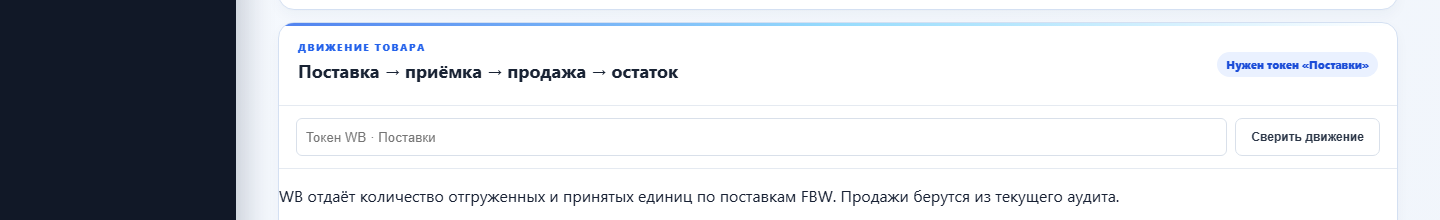
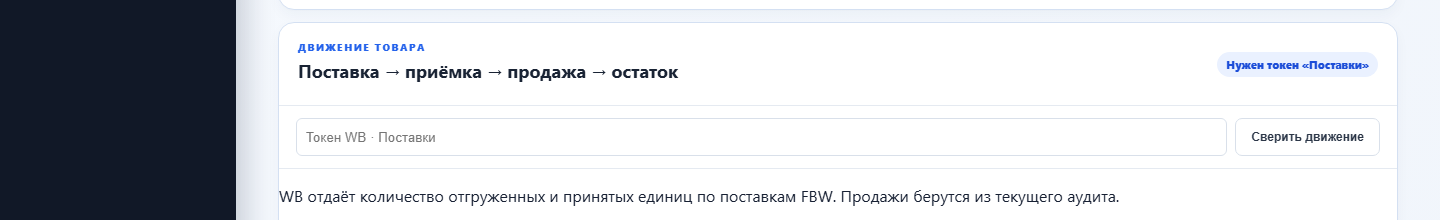
Fix WB token flows and screenshot borders

Changed region(s): [[0.1875, 0.0818, 0.875, 0.1364]]

diff --git a/public/app.js b/public/app.js
@@ -63,6 +63,3 @@ const photoStyle=document.createElement('style');photoStyle.textContent='.photo-
 const brandFilter=document.createElement('select');brandFilter.id='brandFilter';brandFilter.title='Фильтр по бренду';brandFilter.innerHTML='<option value="all">Все бренды</option>';$('filter').after(brandFilter);const productsBeforeBrandFilter=visibleProducts;visibleProducts=()=>{const selected=brandFilter.value;return productsBeforeBrandFilter().filter(x=>selected==='all'||(x.brand||'Без бренда')===selected)};brandFilter.onchange=renderRows;const renderRowsWithBrands=renderRows;renderRows=()=>{if(lastData){const current=brandFilter.value,brands=[...new Set(lastData.products.map(x=>x.brand||'Без бренда'))].sort((a,b)=>a.localeCompare(b,'ru'));brandFilter.innerHTML='<option value="all">Все бренды</option>'+brands.map(x=>`<option value="${esc(x)}">${esc(x)}</option>`).join('');brandFilter.value=brands.includes(current)?current:'all'}renderRowsWithBrands()};
 document.querySelector('#loadStocks').onclick=async()=>{if(!lastData)return message('Сначала запустите финансовый аудит, чтобы определить nmID','info');const button=$('loadStocks');button.disabled=true;button.textContent='Загрузка…';try{const response=await fetch('/api/stocks',{method:'POST',headers:{'Content-Type':'application/json'},body:JSON.stringify({token:$('analyticsToken').value.trim(),nmIds:lastData.products.map(x=>x.nmId)})}),data=await response.json();if(!response.ok)throw new Error(data.error||'Ошибка загрузки остатков');const enriched=await (await fetch('/api/inventory-analysis',{method:'POST',headers:{'Content-Type':'application/json'},body:JSON.stringify({stocks:data.stocks,products:lastData.products,days:Math.max(1,Math.round((new Date($('dateTo').value)-new Date($('dateFrom').value))/86400000)+1)})})).json();$('stockStatus').textContent=`${data.rows} позиций`;$('stockBody').innerHTML=enriched.inventory.length?`<table class="stock-table"><thead><tr><th>nmID / склад</th><th>Баркод</th><th>Остаток</th><th>Продажи/день</th><th>Запас дней</th><th>Заказать на 30 дней</th><th>Статус</th></tr></thead><tbody>${enriched.inventory.map(x=>`<tr><td>${esc(x.nmId)}<small>${esc(x.warehouse)}</small></td><td>${esc(x.barcode)}</td><td>${num(x.quantity)}</td><td>${num(x.dailySales)}</td><td>${x.daysCover==null?'—':num(x.daysCover)}</td><td>${x.reorder==null?'—':num(x.reorder)}</td><td><span class="pill ${x.status==='critical'||x.status==='out'?'loss':x.status==='warning'?'warning':x.status==='healthy'?'healthy':'unknown'}">${x.status==='out'?'Нет остатка':x.status==='critical'?'Меньше 7 дней':x.status==='warning'?'Меньше 14 дней':x.status==='healthy'?'В норме':'Нет продаж'}</span></td></tr>`).join('')}</tbody></table>`:'WB не вернул строки остатков'}catch(error){$('stockStatus').textContent='Ошибка';$('stockBody').textContent=error.message}finally{button.disabled=false;button.textContent='Загрузить остатки'}};
 if(!document.querySelector('link[href="/theme-3d.css"]')){const l=document.createElement('link');l.rel='stylesheet';l.href='/theme-3d.css';document.head.appendChild(l)}
-const reconciliationPanelSecondary=document.createElement('section');reconciliationPanelSecondary.className='panel hidden';reconciliationPanelSecondary.id='reconciliationPanelSecondary';reconciliationPanelSecondary.innerHTML='<div class="panelhead"><div><p class="eyebrow">ДВИЖЕНИЕ ТОВАРА</p><h2>Поставка → приёмка → продажа → остаток</h2></div><span id="reconciliationStatus" class="badge">Нужен токен «Поставки»</span></div><div class="stock-controls"><input id="suppliesToken" type="password" placeholder="Токен WB · Поставки"><button id="loadReconciliation" class="secondary">Сверить движение</button></div><p class="muted">WB отдаёт количество отгруженных и принятых единиц по поставкам FBW. Продажи берутся из текущего аудита.</p><div id="reconciliationBody" class="stock-body"></div>';document.querySelector('#products').before(reconciliationPanelSecondary);
-$('loadReconciliation').onclick=async()=>{if(!lastData)return message('Сначала запустите финансовый аудит','info');const button=$('loadReconciliation');button.disabled=true;button.textContent='Загрузка…';try{const response=await fetch('/api/reconciliation',{method:'POST',headers:{'Content-Type':'application/json'},body:JSON.stringify({token:$('suppliesToken').value.trim(),dateFrom:$('dateFrom').value,dateTo:$('dateTo').value,products:lastData.products})}),data=await response.json();if(!response.ok)throw new Error(data.error||'Ошибка сверки');$('reconciliationStatus').textContent=`${data.summary.supplied} поставок · ${data.summary.potentialLoss} расхожд.`;$('reconciliationBody').innerHTML=data.rows.length?`<table class="stock-table"><thead><tr><th>nmID / баркод</th><th>Отгружено</th><th>Принято</th><th>Продано</th><th>Ожид. остаток</th><th>Разница</th><th>Статус</th></tr></thead><tbody>${data.rows.map(x=>`<tr><td>${esc(x.nmId)}<small>${esc(x.barcode||'—')}</small></td><td>${num(x.shipped)}</td><td>${num(x.accepted)}</td><td>${num(x.sold)}</td><td>${num(x.expectedStock)}</td><td>${num(x.gap)}</td><td><span class="pill ${x.status==='matched'?'healthy':x.status==='potential-loss'?'loss':'warning'}">${x.status==='matched'?'Сверено':x.status==='potential-loss'?'Возможная недостача':'Лишек или неучтено'}</span></td></tr>`).join('')}</tbody></table>`:'WB не вернул поставки за выбранный период'}catch(error){$('reconciliationStatus').textContent='Ошибка';$('reconciliationBody').textContent=error.message}finally{button.disabled=false;button.textContent='Сверить движение'};
-}

diff --git a/test/wb-api.test.js b/test/wb-api.test.js
@@ -1,9 +1,10 @@
-import assert from 'node:assert/strict';import test from 'node:test';import {fetchReport,fetchCurrentStocks,fetchProductCard} from '../src/wb-api.js';
+import assert from 'node:assert/strict';import test from 'node:test';import {fetchReport,fetchCurrentStocks,fetchProductCard,fetchPrices} from '../src/wb-api.js';
 const response=(body,status=200)=>({ok:status===200,status,json:async()=>body});
 test('постранично загружает отчёт без токена в URL',async()=>{const calls=[];const pages=[[{rrd_id:1},{rrd_id:2}],[{rrd_id:3}]];const rows=await fetchReport({token:'secret',dateFrom:'2026-08-01',dateTo:'2026-08-02',pageLimit:2,fetchImpl:async(url,opt)=>{calls.push([String(url),opt]);return response(pages.shift())}});assert.equal(rows.length,3);assert.match(calls[1][0],/rrdid=2/);assert.doesNotMatch(calls[0][0],/secret/);assert.equal(calls[0][1].headers.Authorization,'Bearer secret')});
 test('отклоняет неверные даты и права',async()=>{await assert.rejects(fetchReport({token:'x',dateFrom:'bad',dateTo:'2026-01-01'}),/дата/);await assert.rejects(fetchReport({token:'x',dateFrom:'2026-01-02',dateTo:'2026-01-01'}),/позже/);await assert.rejects(fetchReport({token:'x',dateFrom:'2026-01-01',dateTo:'2026-01-01',fetchImpl:async()=>response({},403)}),/Финансы/)});
 test('при отказе нового API пробует старый токен Статистики',async()=>{const calls=[];const rows=await fetchReport({token:'old',dateFrom:'2026-01-01',dateTo:'2026-01-01',fetchImpl:async(url,opt)=>{calls.push([String(url),opt]);return calls.length===1?response({},403):response([{rrd_id:7}])}});assert.equal(rows.length,1);assert.match(calls[0][0],/finance-api/);assert.match(calls[1][0],/statistics-api/);assert.equal(calls[1][1].method,undefined)});
 test('понятно объясняет лимит WB',async()=>{await assert.rejects(fetchReport({token:'x',dateFrom:'2026-01-01',dateTo:'2026-01-01',fetchImpl:async()=>response({},429)}),/Лимит запросов WB/)});
-test('нормализует текущие остатки из Analytics API',async()=>{const calls=[];const rows=await fetchCurrentStocks({token:'analytics-secret',nmIds:['12',12],fetchImpl:async(url,opt)=>{calls.push([String(url),opt]);return response({data:[{nmId:12,barcode:'b',warehouseName:'Коледино',quantity:7,inWayToClient:2}]})}});assert.equal(calls.length,1);assert.deepEqual(JSON.parse(calls[0][1].body),{nmIds:[12]});assert.deepEqual(rows[0],{nmId:'12',barcode:'b',warehouse:'Коледино',quantity:7,inWayToClient:2,inWayFromClient:0,updatedAt:null})});
+test('нормализует текущие остатки из Analytics API',async()=>{const calls=[];const rows=await fetchCurrentStocks({token:'analytics-secret',nmIds:['12',12],fetchImpl:async(url,opt)=>{calls.push([String(url),opt]);return response({data:[{nmId:12,barcode:'b',warehouseName:'Коледино',quantity:7,inWayToClient:2}]})}});assert.equal(calls.length,1);assert.deepEqual(JSON.parse(calls[0][1].body),{nmIds:[12],chrtIds:[],limit:1000,offset:0});assert.deepEqual(rows[0],{nmId:'12',barcode:'b',warehouse:'Коледино',quantity:7,inWayToClient:2,inWayFromClient:0,updatedAt:null})});
 test('получает фотографии карточки только по запросу',async()=>{const card=await fetchProductCard({token:'content-secret',nmId:12,fetchImpl:async(url,opt)=>{assert.match(String(url),/content\/v2\/get\/cards\/list/);return response({cards:[{nmID:12,title:'Товар',photos:[{big:'https://img.example/big.jpg'},{c516x688:'https://img.example/medium.jpg'}]}]})}});assert.deepEqual(card,{nmId:'12',title:'Товар',photos:['https://img.example/big.jpg','https://img.example/medium.jpg']})});
 test('не подменяет карточку при неточном совпадении nmID',async()=>{const result=await fetchProductCard({token:'x',nmId:999888777,fetchImpl:async()=>response({cards:[{nmID:111222333,title:'Чужой товар',photos:[{big:'https://img.example/other.jpg'}]}]})});assert.equal(result.title,'');assert.deepEqual(result.photos,[])})
+test('загружает цены по актуальному контракту WB',async()=>{let request;const rows=await fetchPrices({token:'price-secret',nmIds:['12',12],fetchImpl:async(url,opt)=>{request={url:String(url),opt};return response({data:{listGoods:[{nmID:12,vendorCode:'A-12',discount:30,clubDiscount:5,sizes:[{price:1000,discountedPrice:700,clubDiscountedPrice:665}]}]}})}});assert.deepEqual(JSON.parse(request.opt.body),{nmList:[12]});assert.equal(rows[0].price,1000);assert.equal(rows[0].discountedPrice,700);assert.equal(rows[0].clientPrice,665)});

diff --git a/src/wb-api.js b/src/wb-api.js
@@ -65,7 +65,7 @@ export async function fetchReport({ token, dateFrom, dateTo, fetchImpl = fetch, 
 export async function fetchCurrentStocks({ token, nmIds = [], fetchImpl = fetch }) {
   if (!token) throw new Error('Введите токен WB категории «Аналитика» для остатков');
   const ids = [...new Set(nmIds.map(Number).filter(Number.isInteger).filter(id => id > 0))];
-  const response = await fetchImpl(STOCKS_ENDPOINT, { method: 'POST', headers: { Authorization: authorization(token), 'Content-Type': 'application/json', Accept: 'application/json' }, body: JSON.stringify({ nmIds: ids }), signal: AbortSignal.timeout(60000) });
+  const response = await fetchImpl(STOCKS_ENDPOINT, { method: 'POST', headers: { Authorization: authorization(token), 'Content-Type': 'application/json', Accept: 'application/json' }, body: JSON.stringify({ nmIds: ids, chrtIds: [], limit: 1000, offset: 0 }), signal: AbortSignal.timeout(60000) });
   if (!response.ok) {
     let detail=''; try { const body=await response.clone().json(); detail=body?.message||body?.error||''; } catch {}
     if (response.status === 429) throw new Error('WB ограничил частоту запроса остатков. Подождите 20 секунд');
@@ -105,10 +105,16 @@ async function wbJson(response, label) {
 export async function fetchPrices({ token, nmIds = [], fetchImpl = fetch }) {
   if (!token) throw new Error('Введите токен WB категории «Цены и скидки»');
   const ids = [...new Set(nmIds.map(Number).filter(Number.isInteger).filter(id => id > 0))];
-  const response = await fetchImpl(`${PRICES_ENDPOINT}/api/v2/list/goods/filter`, { method: 'POST', headers: { Authorization: authorization(token), 'Content-Type': 'application/json', Accept: 'application/json' }, body: JSON.stringify({ nmIDs: ids }), signal: AbortSignal.timeout(60000) });
+  const response = await fetchImpl(`${PRICES_ENDPOINT}/api/v2/list/goods/filter`, { method: 'POST', headers: { Authorization: authorization(token), 'Content-Type': 'application/json', Accept: 'application/json' }, body: JSON.stringify({ nmList: ids }), signal: AbortSignal.timeout(60000) });
   const payload = await wbJson(response, 'цен');
-  const rows = Array.isArray(payload) ? payload : Array.isArray(payload.data) ? payload.data : [];
-  return rows.map(row => ({ nmId: String(row.nmID ?? row.nmId ?? ''), vendorCode: String(row.vendorCode ?? ''), brand: String(row.brand ?? row.brandName ?? ''), price: Number(row.price ?? 0), discount: Number(row.discount ?? 0), discountedPrice: Number(row.discountedPrice ?? row.salePrice ?? row.price ?? 0), clubDiscount: Number(row.clubDiscount ?? 0), clientPrice: Number(row.finishedPrice ?? row.priceWithDiscount ?? row.discountedPrice ?? row.price ?? 0), editableSizePrice: Boolean(row.editableSizePrice), updatedAt: row.updatedAt ?? null }));
+  const rows = Array.isArray(payload) ? payload : Array.isArray(payload?.data?.listGoods) ? payload.data.listGoods : Array.isArray(payload.data) ? payload.data : [];
+  return rows.map(row => {
+    const sizes = Array.isArray(row.sizes) ? row.sizes : [];
+    const size = sizes.find(item => Number(item.price) > 0) ?? sizes[0] ?? {};
+    const price = Number(row.price ?? size.price ?? 0) || 0;
+    const discountedPrice = Number(row.discountedPrice ?? size.discountedPrice ?? row.salePrice ?? price) || 0;
+    return { nmId: String(row.nmID ?? row.nmId ?? ''), vendorCode: String(row.vendorCode ?? ''), brand: String(row.brand ?? row.brandName ?? ''), price, discount: Number(row.discount ?? 0), discountedPrice, clubDiscount: Number(row.clubDiscount ?? 0), clientPrice: Number(row.finishedPrice ?? row.priceWithDiscount ?? size.clubDiscountedPrice ?? discountedPrice) || 0, editableSizePrice: Boolean(row.editableSizePrice), updatedAt: row.updatedAt ?? null };
+  });
 }
 
 export async function updatePrices({ token, data, fetchImpl = fetch }) {

diff --git a/public/theme-3d.css b/public/theme-3d.css
@@ -10,7 +10,7 @@ header h1{font-size:38px;text-shadow:0 4px 18px #2563eb22}
 .brand i{box-shadow:0 8px 18px #2563eb66;transform:rotate(-6deg)}
 .cards .dark{background:linear-gradient(145deg,#1c2b46,#101827);box-shadow:0 16px 30px #10182755}
 .setup,.panel,.cards article,.grid3 article{border-radius:16px;border-color:#d4e0f2;position:relative;overflow:hidden}
-.setup:before,.panel:before,.cards article:before{content:"";position:absolute;inset:0 0 auto;height:3px;background:linear-gradient(90deg,#2563eb,#7dd3fc,transparent);opacity:.8}
+.setup:before,.cards article:before{content:"";position:absolute;inset:0 0 auto;height:3px;background:linear-gradient(90deg,#2563eb,#7dd3fc,transparent);opacity:.8}
 .cards article{background:linear-gradient(145deg,#fff,#f5f8fd);transform:perspective(800px) rotateX(1deg)}
 .cards article:nth-child(2){transform:perspective(800px) rotateX(1deg) translateY(5px)}
 .cards article:nth-child(3){transform:perspective(800px) rotateX(1deg) translateY(2px)}
